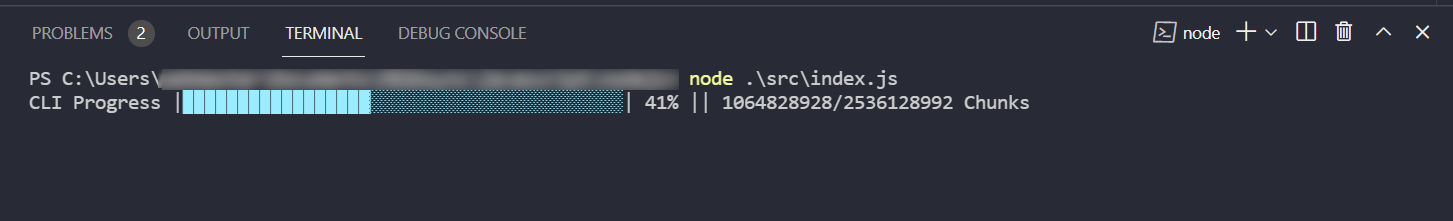
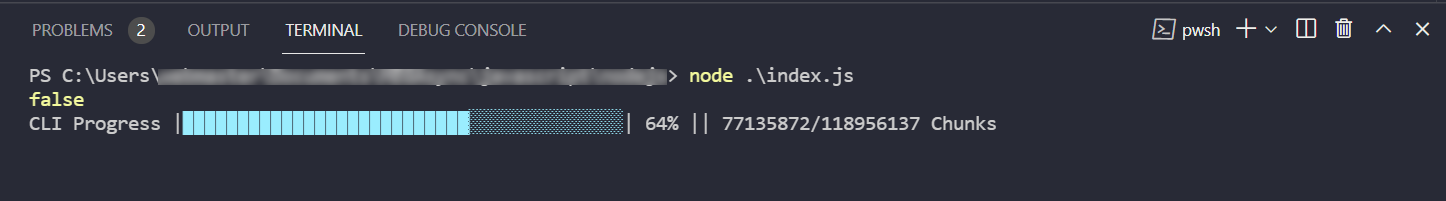
changed to one function gzip or gunzip

diff --git a/src/uni-zip.js b/src/uni-zip.js
@@ -1,0 +1,41 @@
+const progressBar = require('./progressBar.js')
+
+module.exports = function UniZip(inputFile, outFile = '') {
+  const fs = require('fs')
+  const zlib = require('zlib')
+
+  // inputFile has .gz on end:, true gunzip, false gzip.
+  const isGunzip = /\.gz$/g.test(inputFile)
+  console.log(isGunzip)
+  const uniZip = isGunzip ? zlib.createGunzip : zlib.createGzip
+  const output = outFile
+    ? outFile
+    : isGunzip
+    ? inputFile.replace(/\.gz$/, '')
+    : `${inputFile}.gz`
+
+  // size of input file in bytes
+  const { size } = fs.statSync(inputFile)
+  let receivedBytes = 0
+  progressBar.start(size, 0)
+
+  const data = fs.createReadStream(inputFile)
+  // handle video data => on: data, end, error
+  data
+    .on('data', (chunk) => {
+      receivedBytes += chunk.length
+      progressBar.update(receivedBytes)
+    })
+    .pipe(uniZip())
+    .pipe(fs.createWriteStream(output))
+  data.on('end', () => {
+    progressBar.stop()
+    console.log(`${output} finished!`)
+    if (isGunzip)
+      fs.unlink(inputFile, (err) => {
+        if (err) console.log(err)
+        console.log(`Deleted gzipped file`)
+      })
+  })
+  data.on('error', (err) => console.log('Data error:', err))
+}

diff --git a/index.js b/index.js
@@ -1,6 +1,7 @@
-const Gzip = require('./src/gzip')
-const Gunzip = require('./src/gunzip')
+const UniZip = require('./src/uni-zip')
 
-// Gzip(input, output.gz)
-
-// Gunzip(input.gz, output)
+// if input is a .gz file, gunzip it. If not gzip it.
+// UniZip(input, output)  //output file is optional. If empty, will create file in same directory.
+UniZip(
+  'F:/Raid_Backup/Videos/YouTube/Dr._Bruce_Lipton_Explains_How_to_Reprogram_Your_Mind-xsA91lxuF00 - Copy.webm.gz'
+)

diff --git a/README.md b/README.md
@@ -7,9 +7,9 @@ Max memory usage is about 30MB, no matter how large file is.
 1. Clone repository: git clone https://github.com/webmastersmith/node-gzip.git
 2. cd into directory
 3. npm i
-4. point gzip to your file:
-   * Gzip(input, output.gz)
-   * Gunzip(input.gz, output)
+4. edit index.js to point to your file:
+   * Will create output in same directory if no output file provided.
+   * If input file has '.gz' on the end, unizip will automatically know to unzip it.
 5. run from command line: node .\index.js
 
 ![command line progress bar image](src/images/cli.png)
